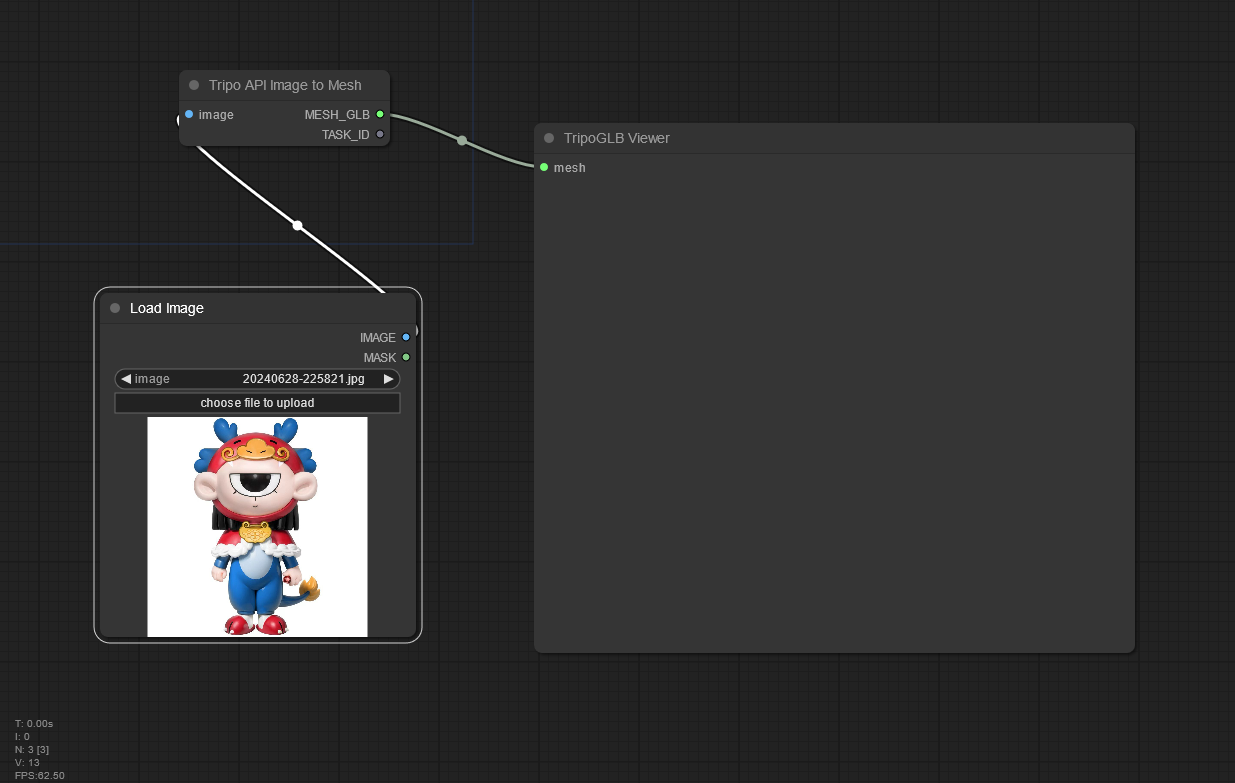
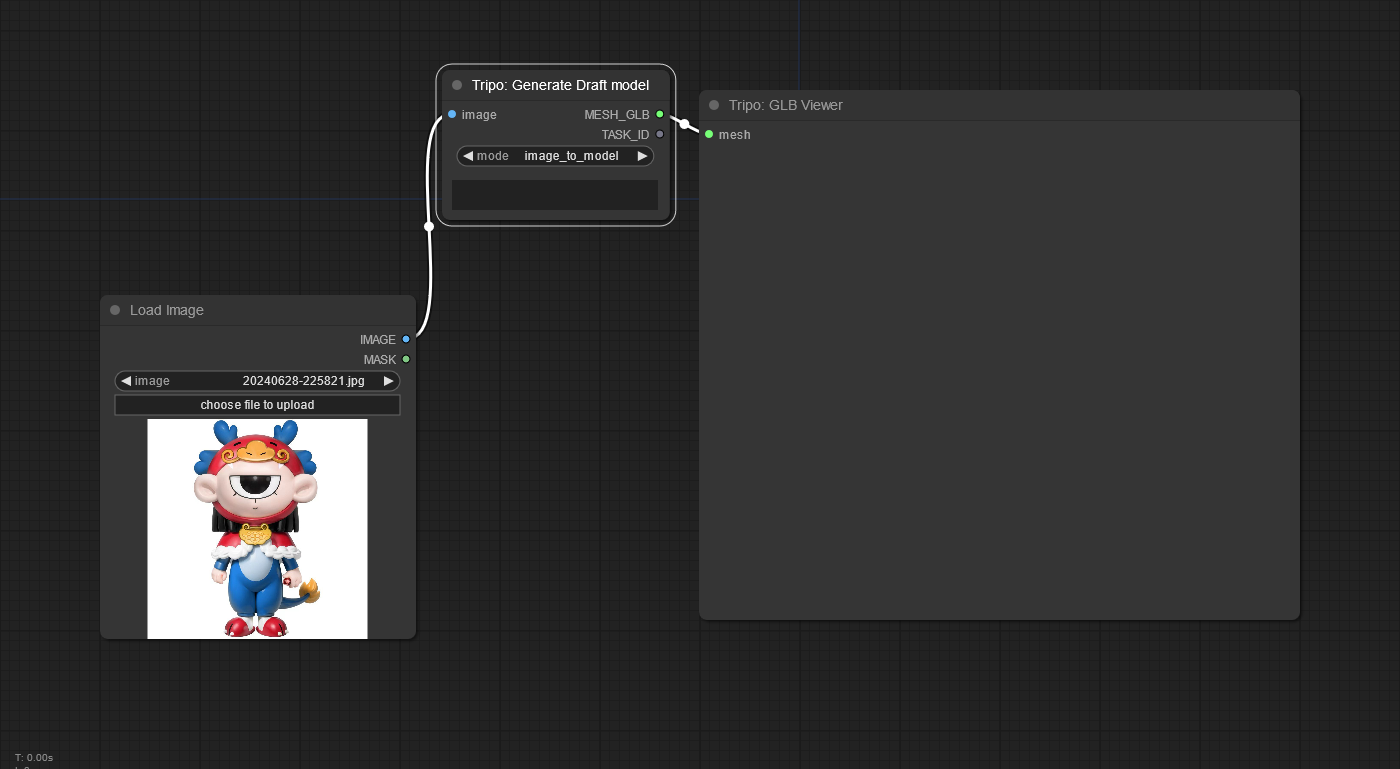
update from ZHO

diff --git a/__init__.py b/__init__.py
@@ -1,17 +1,24 @@
 import sys
 from os import path
 import os
+import json
 sys.path.insert(0, path.dirname(__file__))
 
 from api.system import TripoAPI, save_tensor
 from folder_paths import get_save_image_path, get_output_directory
 
 tripo_api_key = os.environ.get("TRIPO_API_KEY")
+if not tripo_api_key:
+    p = os.path.dirname(os.path.realpath(__file__))
+    with open(os.path.join(p, 'config.json')) as f:
+        config = json.load(f)
+        tripo_api_key = config["TRIPO_API_KEY"]
+
 def GetTripoAPI(apikey: str):
-    use_key = tripo_api_key if tripo_api_key else apiKey
-    if not use_key:
+    apiKey = tripo_api_key if tripo_api_key else apiKey
+    if not apiKey:
         raise RuntimeError("TRIPO API key is required")
-    return TripoAPI(use_key)
+    return TripoAPI(apiKey)
 
 class TripoGLBViewer:
     @classmethod
@@ -19,7 +26,7 @@ class TripoGLBViewer:
         return {
             "required": {
                 # MESH_GLB is a custom type that represents a GLB file
-                "mesh": ("MESH_GLB",)
+                "mesh": ("MESH",)
             }
         }
 
@@ -50,39 +57,15 @@ class TripoGLBViewer:
             return {"ui": {"mesh": saved}}
 
 
-class TripoAPITextToMeshNode:
+class TripoAPIDraft:
     @classmethod
     def INPUT_TYPES(s):
         config = {
             "required": {
+                "mode": (["text_to_model", "image_to_model"],),
+            },
+            "optional": {
                 "prompt": ("STRING", {"multiline": True}),
-            }
-        }
-        if not tripo_api_key:
-            config["required"]["apikey"] = ("STRING")
-        return config
-
-    RETURN_TYPES = ("MESH_GLB", "TASK_ID")
-    FUNCTION = "generate_mesh"
-    CATEGORY = "TripoAPI"
-
-    def generate_mesh(self, prompt, apiKey = None):
-        if not prompt:
-            raise RuntimeError("Prompt is required")
-        api = GetTripoAPI(apiKey)
-        result = api.text_to_3d(prompt)
-
-        if result['status'] == 'success':
-            return ([result['model']], result['task_id'])
-        else:
-            raise RuntimeError(f"Failed to generate mesh: {result['message']}")
-
-
-class TripoAPIImageToMeshNode:
-    @classmethod
-    def INPUT_TYPES(s):
-        config = {
-            "required": {
                 "image": ("IMAGE",),
             }
         }
@@ -90,17 +73,22 @@ class TripoAPIImageToMeshNode:
             config["required"]["apikey"] = ("STRING")
         return config
 
-    RETURN_TYPES = ("MESH_GLB", "TASK_ID")
+    RETURN_TYPES = ("MESH", "TASK_ID")
     FUNCTION = "generate_mesh"
     CATEGORY = "TripoAPI"
 
-    def generate_mesh(self, image, apiKey = None):
-        if image is None:
-            raise RuntimeError("Image is required")
+    def generate_mesh(self, mode, prompt=None, image=None, apiKey = None):
         api = GetTripoAPI(apiKey)
-        image_name = save_tensor(image, os.path.join(get_output_directory(), "image"))
-        result = api.image_to_3d(image_name)
 
+        if mode == "text_to_model":
+            if not prompt:
+                raise RuntimeError("Prompt is required")
+            result = api.text_to_3d(prompt)
+        elif mode == 'image_to_model':
+            if image is None:
+                raise RuntimeError("Image is required")
+            image_name = save_tensor(image, os.path.join(get_output_directory(), "image"))
+            result = api.image_to_3d(image_name)
         if result['status'] == 'success':
             return ([result['model']], result['task_id'])
         else:
@@ -108,19 +96,13 @@ class TripoAPIImageToMeshNode:
 
 
 NODE_CLASS_MAPPINGS = {
-    "TripoAPITextToMeshNode": TripoAPITextToMeshNode,
-    "TripoAPIImageToMeshNode": TripoAPIImageToMeshNode,
+    "TripoAPIDraft": TripoAPIDraft,
     "TripoGLBViewer": TripoGLBViewer,
 }
 
 NODE_DISPLAY_NAME_MAPPINGS = {
-    "TripoAPITextToMeshNode": "Tripo API Text to Mesh",
-    "TripoAPIImageToMeshNode": "Tripo API Image to Mesh",
-    "TripoGLBViewer": "TripoGLB Viewer",
+    "TripoAPIDraft": "Tripo: Generate Draft model",
+    "TripoGLBViewer": "Tripo: GLB Viewer",
 }
 
 WEB_DIRECTORY = "./web"
-
-__all__ = ['NODE_CLASS_MAPPINGS',
-           'NODE_DISPLAY_NAME_MAPPINGS',
-           'WEB_DIRECTORY']

diff --git a/README.md b/README.md
@@ -32,6 +32,7 @@ If you have a comfy-cli, you can simply execute `comfy node registry-install com
             TRIPO_API_KEY=tsk_XXXXXXX python main.py [--cpu]
             ```
     * [Method2] Set your Tripo API key in node input field.
+    * [Method3] Set your Tripo API key in `config.json`.
 
 Usually it will take 10~15s to generate a draft model.
 
@@ -55,10 +56,11 @@ This node allows you to generate a 3D model from an input image using the Tripo 
 - The node will output a GLB file containing the generated 3D model.
 
 ### Download Model
-Models will be automatically downloaded after generation in `ComfyUI-Tripo\output` folder.
+Models will be automatically downloaded after generation in `ComfyUI\output` folder.
 
 ## License
 This project is licensed under the MIT License. See the LICENSE file for details.
 
 ## Credit
 Thanks for awesome 3d pack visualization from [ComfyUI-3D-Pack](https://github.com/MrForExample/ComfyUI-3D-Pack)
+Thansk for initial repo from [Tripo-API-ZHO](https://github.com/ZHO-ZHO-ZHO/Tripo-API-ZHO)
